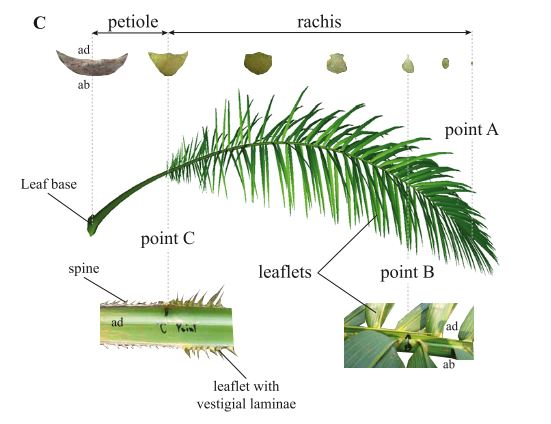
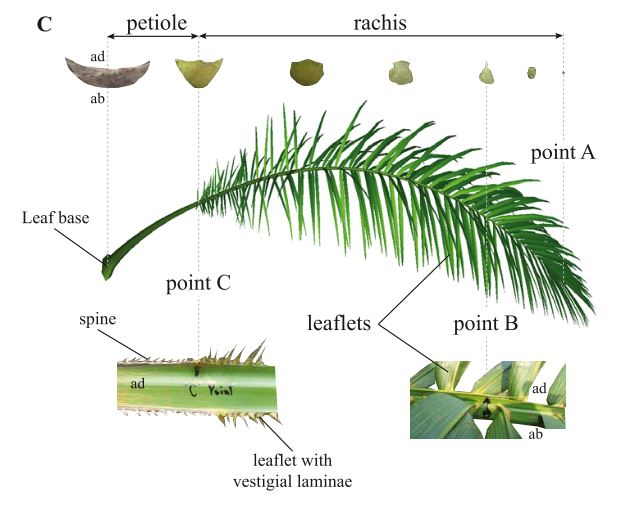
update

diff --git a/projets/oilpalm/InstructionOilPalm.md b/projets/oilpalm/InstructionOilPalm.md
@@ -14,8 +14,7 @@ Oil palm is a perennial plant which architecture follows the Corner model, which
 
 Mature oil palm leaves are compound leaves with an even-pinnate arrangement. The leaf is composed by a petiole and a rachis that bears leaflets, also called pinnae. Both sides of the leaves have almost a similar number of leaflets but their disposition along the rachis is irregular. Reference points can be observed on rachis (A=leaf tip, B=transition shape of cross section  and C= transition between petiole and rachis). At adult stage, leaf length can reach 10 meters and bears approximately 250 to 350 leaflets.
 
-<img src="./leaf.JPG" width=400>
-
+<img src="./leaf.JPG" width=600>
 
 
 ## Modelling oil palm architetcure from allometric reationships
